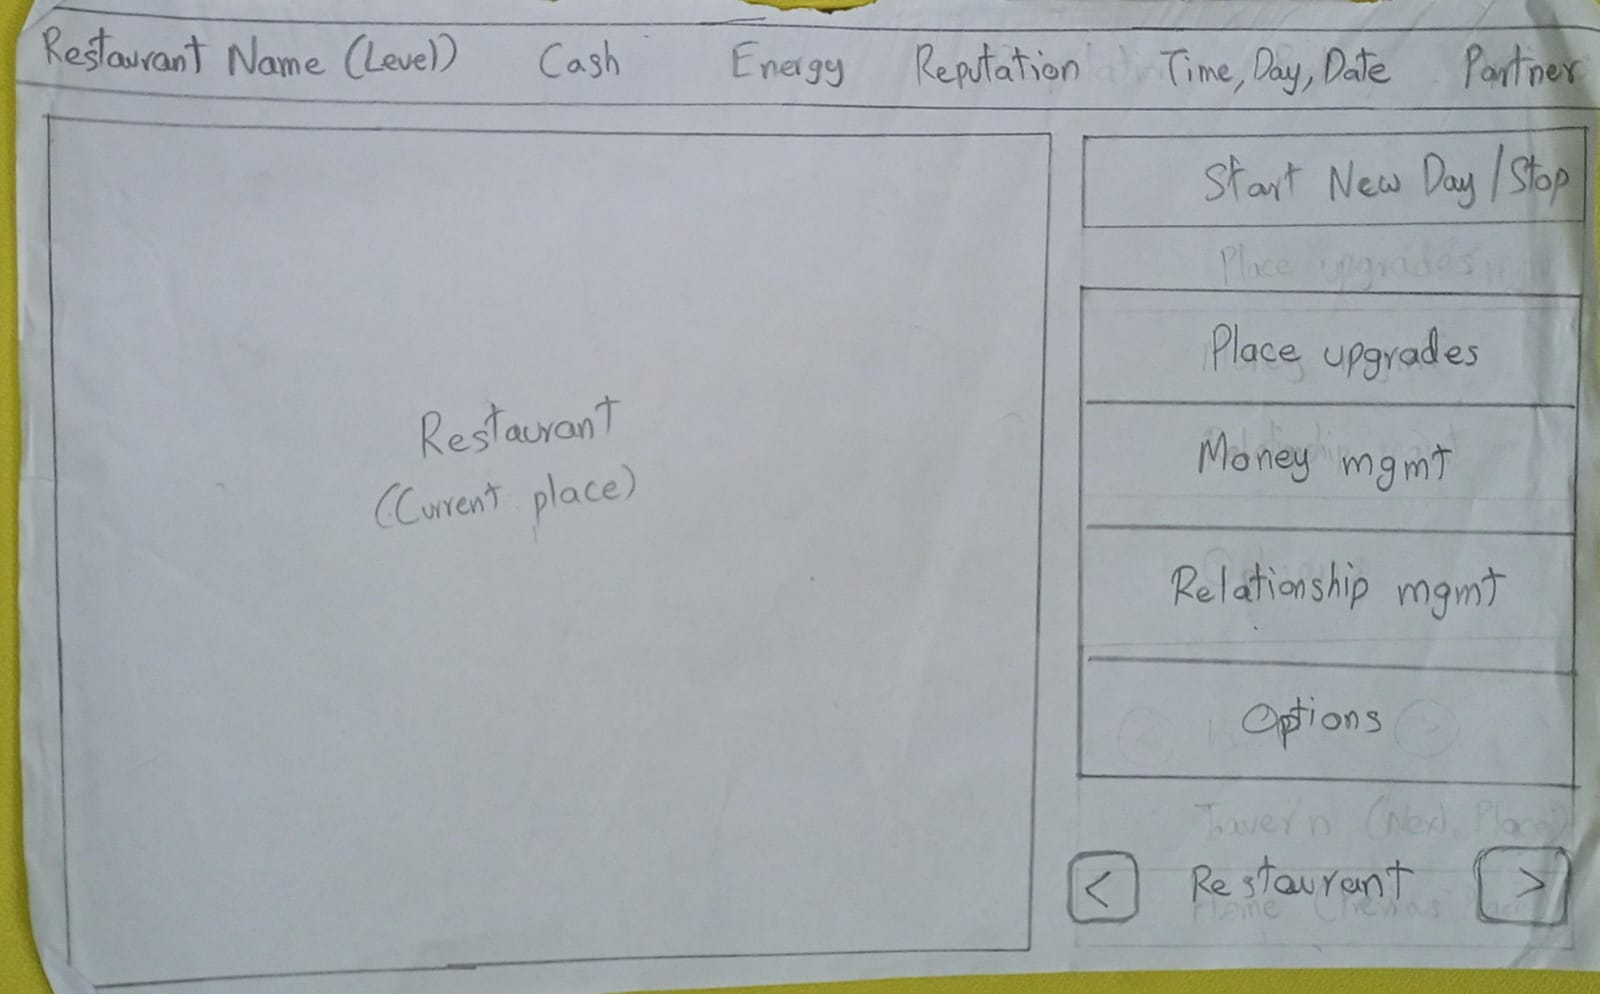
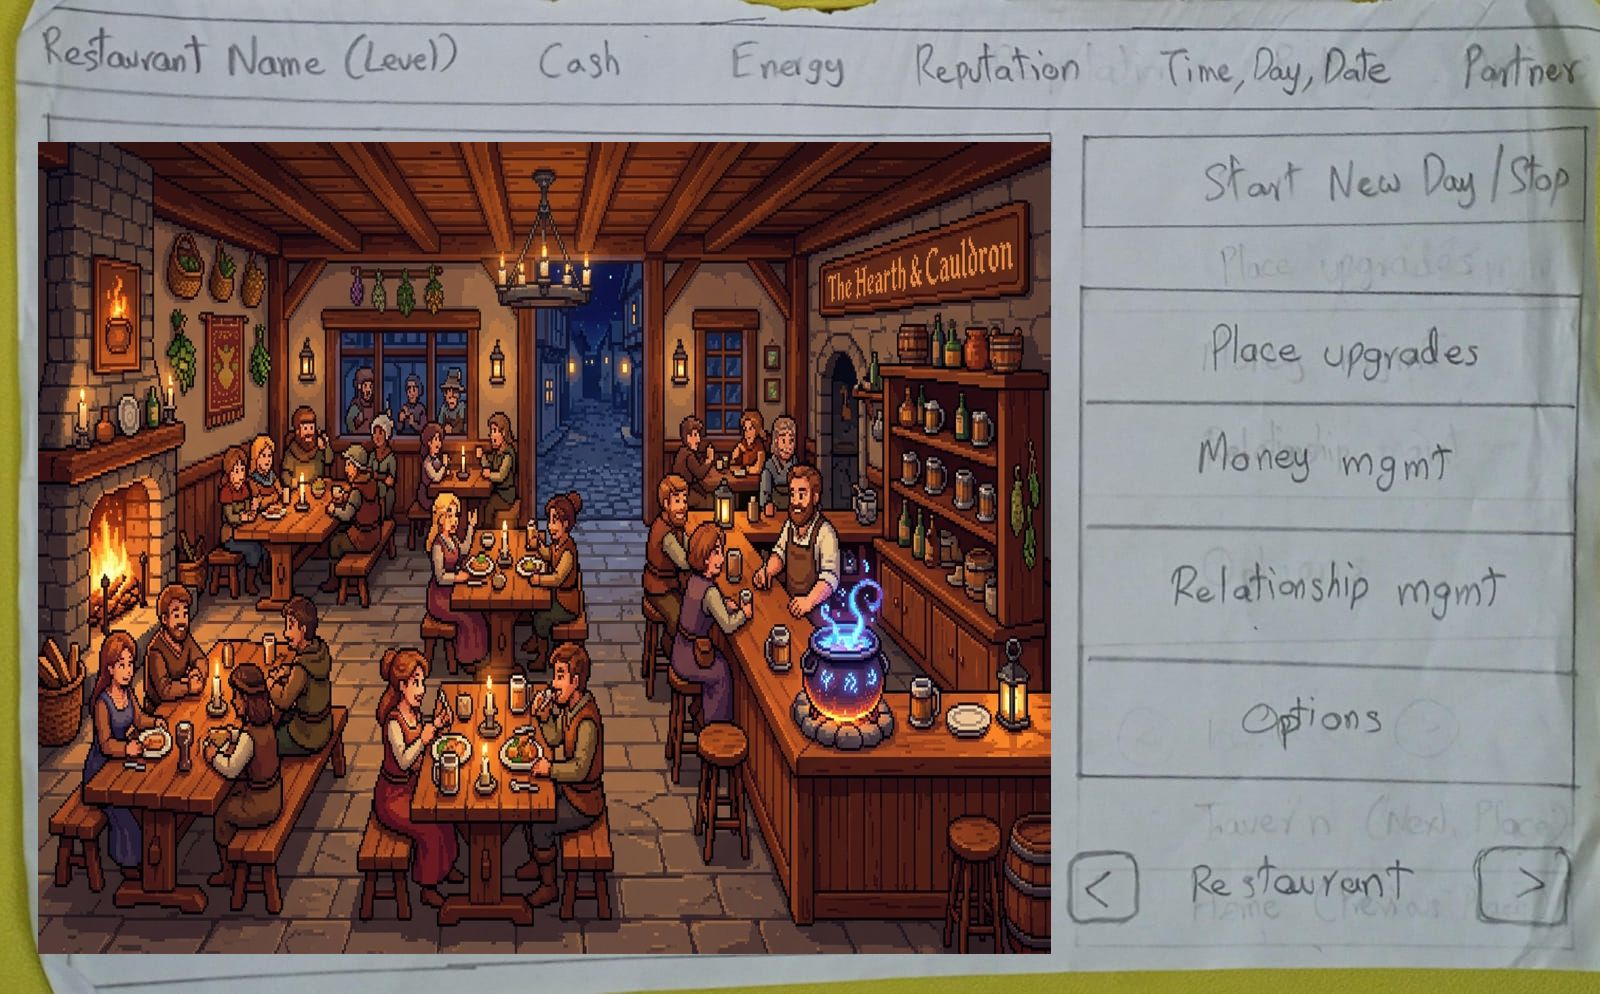
Update UI to match the new UI mock layout with full viewport backgrounds and floating overlay panels

diff --git a/ui/screens/tavern_menu.py b/ui/screens/tavern_menu.py
@@ -1,6 +1,6 @@
 from PySide6.QtWidgets import QWidget, QVBoxLayout, QHBoxLayout, QLabel, QPushButton, QFrame, QScrollArea, QListWidget, QListWidgetItem, QProgressBar
 from PySide6.QtCore import Qt, Signal
-from PySide6.QtGui import QPixmap
+from PySide6.QtGui import QPixmap, QPainter
 from ui.theme import ThemeManager
 from ui.audio import UIAudio
 from ui.dialogs.custom_dialogs import ConfirmDialog, ChoicesDialog
@@ -13,44 +13,25 @@ class TavernMenuScreen(QWidget):
         super().__init__(parent)
         self.state = state
         
-        main_layout = QVBoxLayout(self)
-        main_layout.setContentsMargins(15, 10, 15, 10)
-        main_layout.setSpacing(10)
+        main_layout = QHBoxLayout(self)
+        main_layout.setContentsMargins(15, 15, 15, 15)
+        main_layout.setSpacing(20)
         
-        # Header
-        header_layout = QHBoxLayout()
-        self.back_btn = QPushButton("← Return to Evening Choices", self)
-        self.back_btn.clicked.connect(self.go_back.emit)
-        header_layout.addWidget(self.back_btn)
-        
-        self.title = QLabel("Oakhaven Tavern", self)
-        self.title.setStyleSheet(f"font-size: 22px; font-weight: bold; color: {ThemeManager.DARK_BROWN};")
-        header_layout.addWidget(self.title, alignment=Qt.AlignRight)
-        main_layout.addLayout(header_layout)
-        
-        # Tavern Pixel Art Banner (Scaled down for vertical space)
-        self.banner_img = QLabel(self)
-        self.banner_img.setStyleSheet(f"border: 4px solid {ThemeManager.DARK_BROWN}; border-radius: 0px;")
-        pixmap = QPixmap("assets/images/tavern_bg.jpg")
-        self.banner_img.setPixmap(pixmap.scaled(960, 95, Qt.KeepAspectRatioByExpanding, Qt.SmoothTransformation))
-        main_layout.addWidget(self.banner_img, alignment=Qt.AlignCenter)
-        
-        # Split layout
-        split_layout = QHBoxLayout()
-        split_layout.setSpacing(20)
+        card_style = "QFrame { background-color: rgba(245, 235, 224, 0.92); border: 3px solid #5B3923; border-radius: 8px; }"
         
         # LEFT COLUMN: Socializing & Girls
         self.girls_card = QFrame(self)
-        self.girls_card.setObjectName("card-frame")
+        self.girls_card.setStyleSheet(card_style)
         self.girls_layout = QVBoxLayout(self.girls_card)
         self.girls_layout.setSpacing(12)
         
         girls_title = QLabel("🌹 Socializing & Dating", self)
-        girls_title.setStyleSheet(f"font-size: 18px; font-weight: bold; color: {ThemeManager.DARK_BROWN};")
+        girls_title.setStyleSheet("font-size: 18px; font-weight: bold; color: #5B3923; border: none; background: transparent;")
         self.girls_layout.addWidget(girls_title)
         
         self.girls_scroll = QScrollArea(self)
         self.girls_scroll.setWidgetResizable(True)
+        self.girls_scroll.setStyleSheet("QScrollArea { border: none; background: transparent; } QWidget { background: transparent; }")
         self.girls_content = QWidget()
         self.girls_scroll_layout = QVBoxLayout(self.girls_content)
         self.girls_scroll_layout.setSpacing(10)
@@ -58,20 +39,21 @@ class TavernMenuScreen(QWidget):
         self.girls_scroll.setWidget(self.girls_content)
         self.girls_layout.addWidget(self.girls_scroll)
         
-        split_layout.addWidget(self.girls_card, stretch=1)
+        main_layout.addWidget(self.girls_card, stretch=1)
         
         # RIGHT COLUMN: Job Candidates
         self.candidates_card = QFrame(self)
-        self.candidates_card.setObjectName("card-frame")
+        self.candidates_card.setStyleSheet(card_style)
         self.cand_layout = QVBoxLayout(self.candidates_card)
         self.cand_layout.setSpacing(12)
         
         cand_title = QLabel("👥 Job Applicants", self)
-        cand_title.setStyleSheet(f"font-size: 18px; font-weight: bold; color: {ThemeManager.DARK_BROWN};")
+        cand_title.setStyleSheet("font-size: 18px; font-weight: bold; color: #5B3923; border: none; background: transparent;")
         self.cand_layout.addWidget(cand_title)
         
         self.cand_scroll = QScrollArea(self)
         self.cand_scroll.setWidgetResizable(True)
+        self.cand_scroll.setStyleSheet("QScrollArea { border: none; background: transparent; } QWidget { background: transparent; }")
         self.cand_content = QWidget()
         self.cand_scroll_layout = QVBoxLayout(self.cand_content)
         self.cand_scroll_layout.setSpacing(10)
@@ -79,10 +61,14 @@ class TavernMenuScreen(QWidget):
         self.cand_scroll.setWidget(self.cand_content)
         self.cand_layout.addWidget(self.cand_scroll)
         
-        split_layout.addWidget(self.candidates_card, stretch=1)
+        main_layout.addWidget(self.candidates_card, stretch=1)
         
-        main_layout.addLayout(split_layout)
         self.update_ui()
+
+    def paintEvent(self, event):
+        painter = QPainter(self)
+        pixmap = QPixmap("assets/images/tavern_bg.jpg")
+        painter.drawPixmap(self.rect(), pixmap)
 
     def interact_girl(self, girl):
         UIAudio.play_click()

diff --git a/ui/screens/personal_life_menu.py b/ui/screens/personal_life_menu.py
@@ -1,6 +1,6 @@
 from PySide6.QtWidgets import QWidget, QVBoxLayout, QHBoxLayout, QLabel, QPushButton, QProgressBar, QFrame, QScrollArea
 from PySide6.QtCore import Qt, Signal
-from PySide6.QtGui import QPixmap
+from PySide6.QtGui import QPixmap, QPainter
 from ui.theme import ThemeManager
 from ui.audio import UIAudio
 from ui.dialogs.custom_dialogs import ConfirmDialog
@@ -14,38 +14,25 @@ class PersonalLifeScreen(QWidget):
         super().__init__(parent)
         self.state = state
         
-        main_layout = QVBoxLayout(self)
-        main_layout.setContentsMargins(15, 10, 15, 10)
-        main_layout.setSpacing(10)
+        main_layout = QHBoxLayout(self)
+        main_layout.setContentsMargins(15, 15, 15, 15)
+        main_layout.setSpacing(20)
         
-        # Header with Back button
-        header_layout = QHBoxLayout()
-        self.back_btn = QPushButton("← Back to Hub", self)
-        self.back_btn.clicked.connect(self.go_back.emit)
-        header_layout.addWidget(self.back_btn)
-        
-        self.title = QLabel("Personal Life", self)
-        self.title.setStyleSheet(f"font-size: 22px; font-weight: bold; color: {ThemeManager.DARK_BROWN};")
-        header_layout.addWidget(self.title, alignment=Qt.AlignRight)
-        main_layout.addLayout(header_layout)
-        
-        # Split layout for Romance and House
-        split_layout = QHBoxLayout()
-        split_layout.setSpacing(12)
+        card_style = "QFrame { background-color: rgba(245, 235, 224, 0.92); border: 3px solid #5B3923; border-radius: 8px; }"
         
         # LEFT COLUMN: Romance & Relationships
         self.romance_card = QFrame(self)
-        self.romance_card.setObjectName("card-frame")
+        self.romance_card.setStyleSheet(card_style)
         self.rom_layout = QVBoxLayout(self.romance_card)
         self.rom_layout.setSpacing(8)
         
         rom_title = QLabel("🌹 Dating & Romance", self)
-        rom_title.setStyleSheet(f"font-size: 18px; font-weight: bold; color: {ThemeManager.DARK_BROWN};")
+        rom_title.setStyleSheet("font-size: 18px; font-weight: bold; color: #5B3923; border: none; background: transparent;")
         self.rom_layout.addWidget(rom_title)
         
         self.rom_lbl = QLabel("You are currently single.", self)
         self.rom_lbl.setWordWrap(True)
-        self.rom_lbl.setStyleSheet("font-size: 14px; font-weight: bold;")
+        self.rom_lbl.setStyleSheet("font-size: 14px; font-weight: bold; border: none; background: transparent;")
         self.rom_layout.addWidget(self.rom_lbl)
         
         # Romance meter / Progress Bar
@@ -73,27 +60,21 @@ class PersonalLifeScreen(QWidget):
         self.rom_layout.addWidget(self.break_btn)
         
         self.rom_layout.addStretch()
-        split_layout.addWidget(self.romance_card, stretch=1)
+        main_layout.addWidget(self.romance_card, stretch=1)
         
         # RIGHT COLUMN: Home & Real Estate
         self.house_card = QFrame(self)
-        self.house_card.setObjectName("card-frame")
+        self.house_card.setStyleSheet(card_style)
         self.house_layout = QVBoxLayout(self.house_card)
         self.house_layout.setSpacing(12)
         
         house_title = QLabel("🏡 Home & Real Estate", self)
-        house_title.setStyleSheet(f"font-size: 18px; font-weight: bold; color: {ThemeManager.DARK_BROWN};")
+        house_title.setStyleSheet("font-size: 18px; font-weight: bold; color: #5B3923; border: none; background: transparent;")
         self.house_layout.addWidget(house_title)
-        
-        self.house_img = QLabel(self)
-        self.house_img.setStyleSheet(f"border: 3px solid {ThemeManager.DARK_BROWN}; border-radius: 0px;")
-        pixmap = QPixmap("assets/images/cottage_bg.jpg")
-        self.house_img.setPixmap(pixmap.scaled(320, 150, Qt.IgnoreAspectRatio, Qt.SmoothTransformation))
-        self.house_layout.addWidget(self.house_img)
         
         self.house_lbl = QLabel("You sleep on the floor of your shop.", self)
         self.house_lbl.setWordWrap(True)
-        self.house_lbl.setStyleSheet("font-size: 14px; font-weight: bold;")
+        self.house_lbl.setStyleSheet("font-size: 14px; font-weight: bold; border: none; background: transparent;")
         self.house_layout.addWidget(self.house_lbl)
         
         self.buy_house_btn = QPushButton("Purchase Cottage (-$2500.00)", self)
@@ -120,11 +101,13 @@ class PersonalLifeScreen(QWidget):
         self.house_layout.addWidget(self.scroll)
         
         self.house_layout.addStretch()
-        split_layout.addWidget(self.house_card, stretch=1)
-        
-        main_layout.addLayout(split_layout)
-        
+        main_layout.addWidget(self.house_card, stretch=1)
         self.update_ui()
+
+    def paintEvent(self, event):
+        painter = QPainter(self)
+        pixmap = QPixmap("assets/images/cottage_bg.jpg")
+        painter.drawPixmap(self.rect(), pixmap)
 
     def on_go_date(self):
         p = self.state.player

diff --git a/ui/screens/gameplay.py b/ui/screens/gameplay.py
@@ -1,6 +1,6 @@
 from PySide6.QtWidgets import QWidget, QVBoxLayout, QHBoxLayout, QLabel, QFrame, QScrollArea
 from PySide6.QtCore import Qt
-from PySide6.QtGui import QPixmap
+from PySide6.QtGui import QPixmap, QPainter
 from ui.theme import ThemeManager
 
 class GameplayScreen(QWidget):
@@ -9,8 +9,10 @@ class GameplayScreen(QWidget):
         self.state = state
         
         main_layout = QHBoxLayout(self)
-        main_layout.setContentsMargins(15, 10, 15, 10)
-        main_layout.setSpacing(15)
+        main_layout.setContentsMargins(15, 15, 15, 15)
+        main_layout.setSpacing(20)
+        
+        card_style = "QFrame { background-color: rgba(245, 235, 224, 0.92); border: 3px solid #5B3923; border-radius: 8px; }"
         
         # LEFT COLUMN: Status & Operations
         left_layout = QVBoxLayout()
@@ -37,17 +39,17 @@ class GameplayScreen(QWidget):
         
         # Status Card
         self.status_card = QFrame(self)
-        self.status_card.setObjectName("card-frame")
+        self.status_card.setStyleSheet(card_style)
         status_layout = QVBoxLayout(self.status_card)
         status_layout.setSpacing(10)
         
         status_title = QLabel("🏰 Diner Status & Operations", self)
-        status_title.setStyleSheet(f"font-size: 18px; font-weight: bold; color: {ThemeManager.DARK_BROWN};")
+        status_title.setStyleSheet("font-size: 18px; font-weight: bold; color: #5B3923; border: none; background: transparent;")
         status_layout.addWidget(status_title)
         
         self.status_lbl = QLabel(self)
         self.status_lbl.setWordWrap(True)
-        self.status_lbl.setStyleSheet("font-size: 14px; line-height: 1.4;")
+        self.status_lbl.setStyleSheet("font-size: 14px; line-height: 1.4; border: none; background: transparent;")
         status_layout.addWidget(self.status_lbl)
         
         left_layout.addWidget(self.status_card, stretch=1)
@@ -57,31 +59,30 @@ class GameplayScreen(QWidget):
         right_column = QVBoxLayout()
         right_column.setSpacing(15)
         
-        self.env_img = QLabel(self)
-        self.env_img.setStyleSheet(f"border: 4px solid {ThemeManager.DARK_BROWN}; border-radius: 0px;")
-        pixmap = QPixmap("assets/images/restaurant_bg.jpg")
-        self.env_img.setPixmap(pixmap.scaled(320, 180, Qt.IgnoreAspectRatio, Qt.SmoothTransformation))
-        right_column.addWidget(self.env_img, alignment=Qt.AlignCenter)
-        
         self.obj_card = QFrame(self)
-        self.obj_card.setObjectName("card-frame")
+        self.obj_card.setStyleSheet(card_style)
         obj_layout = QVBoxLayout(self.obj_card)
         obj_layout.setSpacing(10)
         
         obj_title = QLabel("🎯 Current Objectives", self)
-        obj_title.setStyleSheet(f"font-size: 18px; font-weight: bold; color: {ThemeManager.DARK_BROWN};")
+        obj_title.setStyleSheet("font-size: 18px; font-weight: bold; color: #5B3923; border: none; background: transparent;")
         obj_layout.addWidget(obj_title)
         
         self.obj_content = QLabel(self)
         self.obj_content.setWordWrap(True)
         self.obj_content.setAlignment(Qt.AlignTop | Qt.AlignLeft)
-        self.obj_content.setStyleSheet("line-height: 1.4;")
+        self.obj_content.setStyleSheet("line-height: 1.4; border: none; background: transparent;")
         obj_layout.addWidget(self.obj_content)
         
         right_column.addWidget(self.obj_card, stretch=1)
         main_layout.addLayout(right_column, stretch=2)
         
         self.update_ui()
+        
+    def paintEvent(self, event):
+        painter = QPainter(self)
+        pixmap = QPixmap("assets/images/restaurant_bg.jpg")
+        painter.drawPixmap(self.rect(), pixmap)
         
     def update_ui(self, evening_mode=False):
         r = self.state.restaurant
